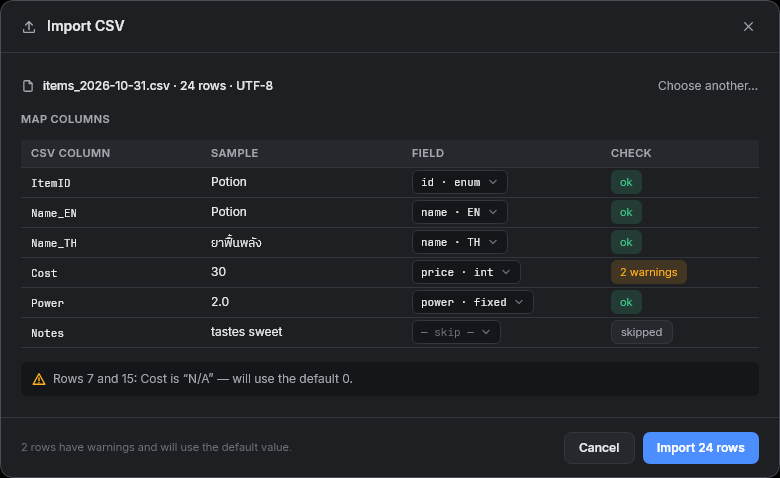
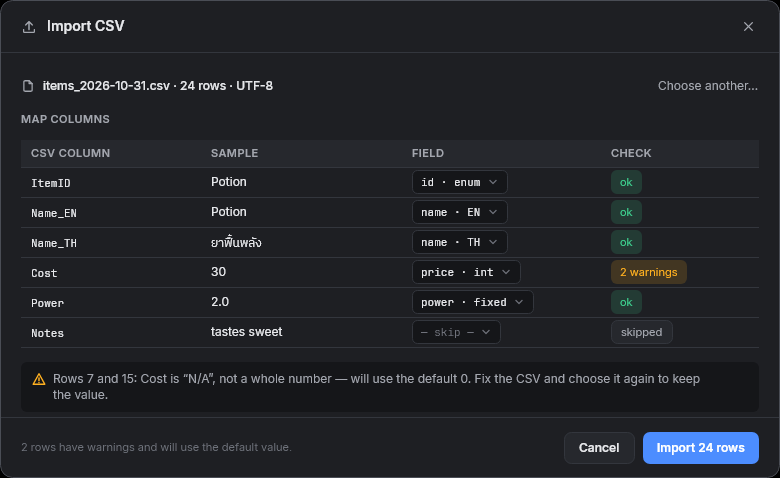
SHOT renders regenerated after the main merge and the message pass (T-D19, T-P02, T-P04, T-P08, T-P23, T-S04, T-S08)
Output of ShotTests.Shot_AllComponentsAndWindows in the full editor run (511 / 511 passed).

Changed region(s): [[0.2769, 0.7615, 0.8923, 0.8201], [0.0615, 0.8201, 0.1538, 0.8494]]

diff --git a/docs/evidence/shot-report.md b/docs/evidence/shot-report.md
@@ -246,7 +246,7 @@ A pixel differs when a channel differs by more than 48/255. Offset = best alignm
 | T-P07 | frame Database | 1440x900 | 1440x900 | 1.75 | 1.75 | 0,0 | 0 | 2.07 |
 | T-D17 | frame New Table | 520x440 | 520x440 | 1.80 | 1.80 | 0,0 | 0 | 2.10 |
 | T-D18 | frame Add Field | 520x516 | 520x516 | 1.32 | 1.32 | 0,0 | 0 | 1.38 |
-| T-D19 | frame Import CSV | 780x478 | 780x478 | 2.30 | 2.30 | 0,0 | 0 | 3.55 |
+| T-D19 | frame Import CSV | 780x478 | 780x478 | 2.69 | 2.69 | 0,0 | 0 | 4.23 |
 | T-P14 | frame Localization | 1440x900 | 1440x900 | 3.74 | 3.74 | 0,0 | 0 | 5.47 |
 | T-D20 | frame Add Language | 520x416 | 520x416 | 1.82 | 1.82 | 0,0 | 0 | 1.89 |
 | T-P16 | frame Dialogue Editor | 1440x900 | 1440x900 | 2.09 | 2.09 | 0,0 | 0 | 2.76 |
@@ -285,7 +285,7 @@ A pixel differs when a channel differs by more than 48/255. Offset = best alignm
 | T-M14 | menu Component Menu | 264x149 | 264x149 | 2.15 | 2.15 | 0,0 | 0 | 2.09 |
 | T-M15 | menu Zoom | 264x175 | 264x175 | 1.62 | 1.62 | 0,0 | 0 | 1.90 |
 | T-M16 | menu Animation List | 264x149 | 264x149 | 1.15 | 1.15 | 0,0 | 0 | 1.34 |
-| T-P04 | frame Script Editor | 1440x900 | 1440x900 | 2.70 | 2.70 | 0,0 | 0 | 3.17 |
+| T-P04 | frame Script Editor | 1440x900 | 1440x900 | 2.75 | 2.75 | 0,0 | 0 | 3.26 |
 | T-D14 | frame New Script | 560x564 | 560x564 | 3.01 | 3.01 | 0,0 | 0 | 3.57 |
 | T-O11 | frame Find & Replace | 540x124 | 540x124 | 5.47 | 5.47 | 0,0 | 0 | 7.36 |
 | T-P18 | frame Scripting API | 1440x900 | 1440x900 | 1.34 | 1.34 | 0,0 | 0 | 1.60 |
@@ -299,7 +299,7 @@ A pixel differs when a channel differs by more than 48/255. Offset = best alignm
 | T-S01 | frame Project Settings · General | 900x620 | 900x620 | 0.92 | 0.92 | 0,0 | 0 | 1.05 |
 | T-S02 | frame Project Settings · Save data | 900x620 | 900x620 | 1.26 | 1.26 | 0,0 | 0 | 1.48 |
 | T-S03 | frame Project Settings · Build | 900x620 | 900x620 | 1.03 | 1.03 | 0,0 | 0 | 1.30 |
-| T-S04 | frame Project Settings · Scripting | 900x620 | 900x620 | 1.87 | 1.87 | 0,0 | 0 | 2.16 |
+| T-S04 | frame Project Settings · Scripting | 900x620 | 900x620 | 2.07 | 2.07 | 0,0 | 0 | 2.46 |
 | T-S05 | frame Project Settings · Localization | 900x620 | 900x620 | 0.80 | 0.80 | 0,0 | 0 | 0.97 |
 | T-D09 | frame Preferences | 900x620 | 900x620 | 0.67 | 0.67 | 0,0 | 0 | 0.78 |
 | T-S06 | frame Preferences · Appearance | 900x620 | 900x620 | 0.87 | 0.87 | 0,0 | 0 | 1.52 |
@@ -309,7 +309,7 @@ A pixel differs when a channel differs by more than 48/255. Offset = best alignm
 | T-L03 | frame Preferences · Appearance · Light | 900x620 | 900x620 | 0.84 | 0.84 | 0,0 | 0 | 1.53 |
 | T-D11 | frame About | 460x304 | 460x304 | 2.73 | 2.73 | 0,0 | 0 | 3.42 |
 | T-O12 | frame Record Shortcut | 340x264 | 340x264 | 1.95 | 1.95 | 0,0 | 0 | 2.17 |
-| T-P08 | frame Sprite Editor | 1440x900 | 1440x900 | 1.70 | 1.70 | 0,0 | 0 | 2.43 |
+| T-P08 | frame Sprite Editor | 1440x900 | 1440x900 | 1.67 | 1.67 | 0,0 | 0 | 2.39 |
 | T-P10 | frame Palette Manager | 1440x900 | 1440x900 | 2.41 | 2.41 | 0,0 | 0 | 3.31 |
 | T-D13 | frame New Sprite | 520x506 | 520x506 | 1.55 | 1.55 | 0,0 | 0 | 1.65 |
 | T-M19 | menu OAM Size | 264x175 | 264x175 | 3.70 | 3.70 | 0,0 | 0 | 4.30 |
